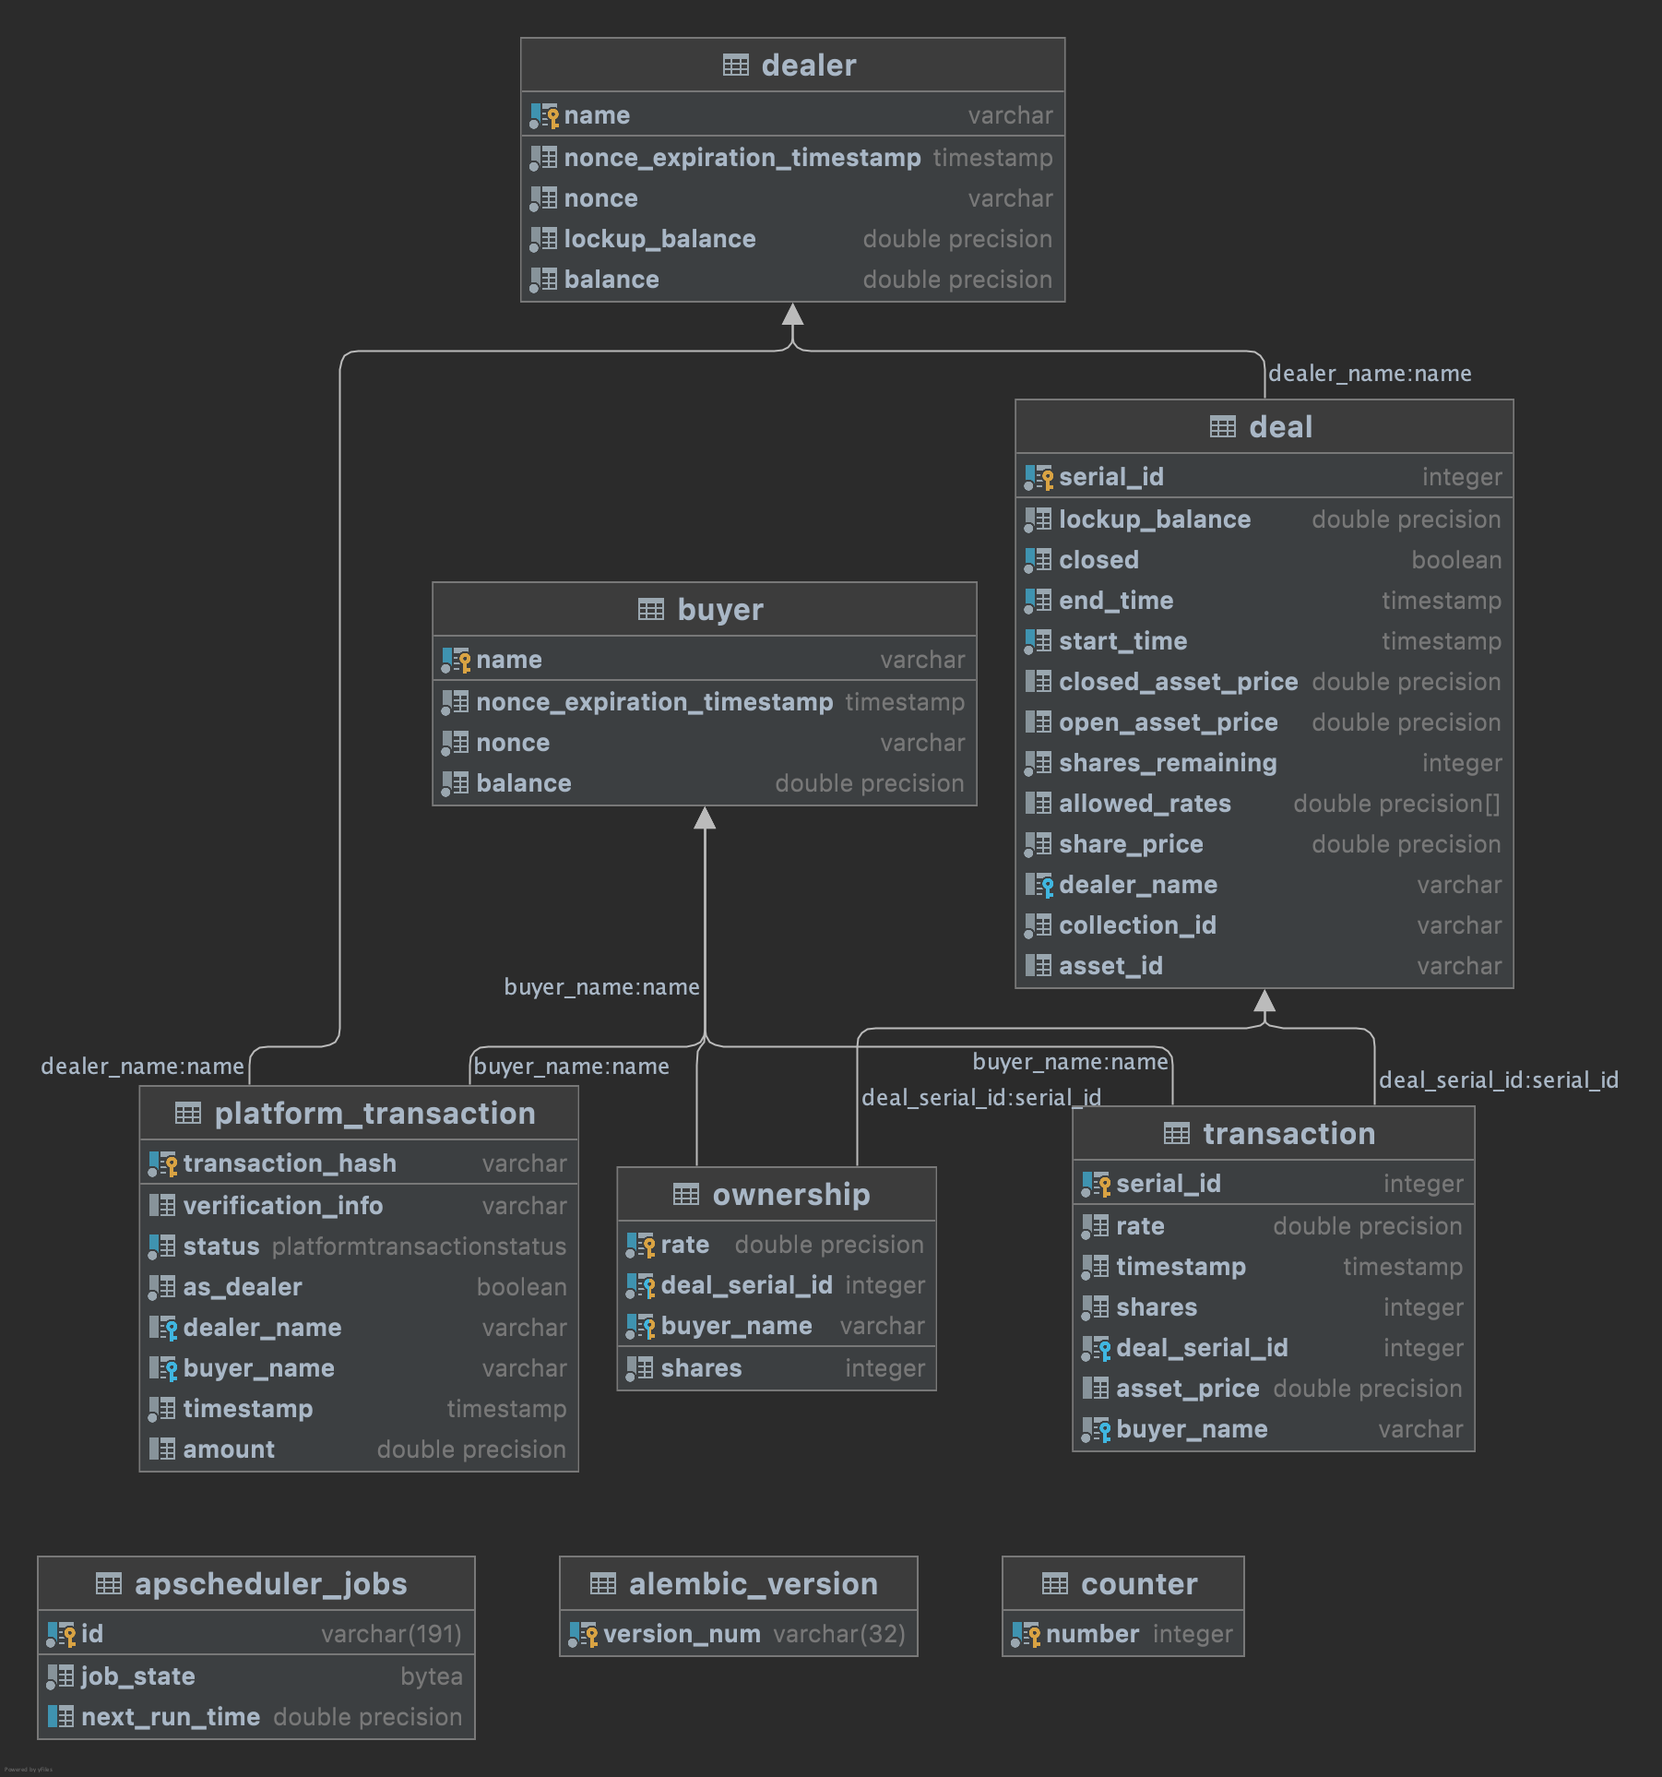
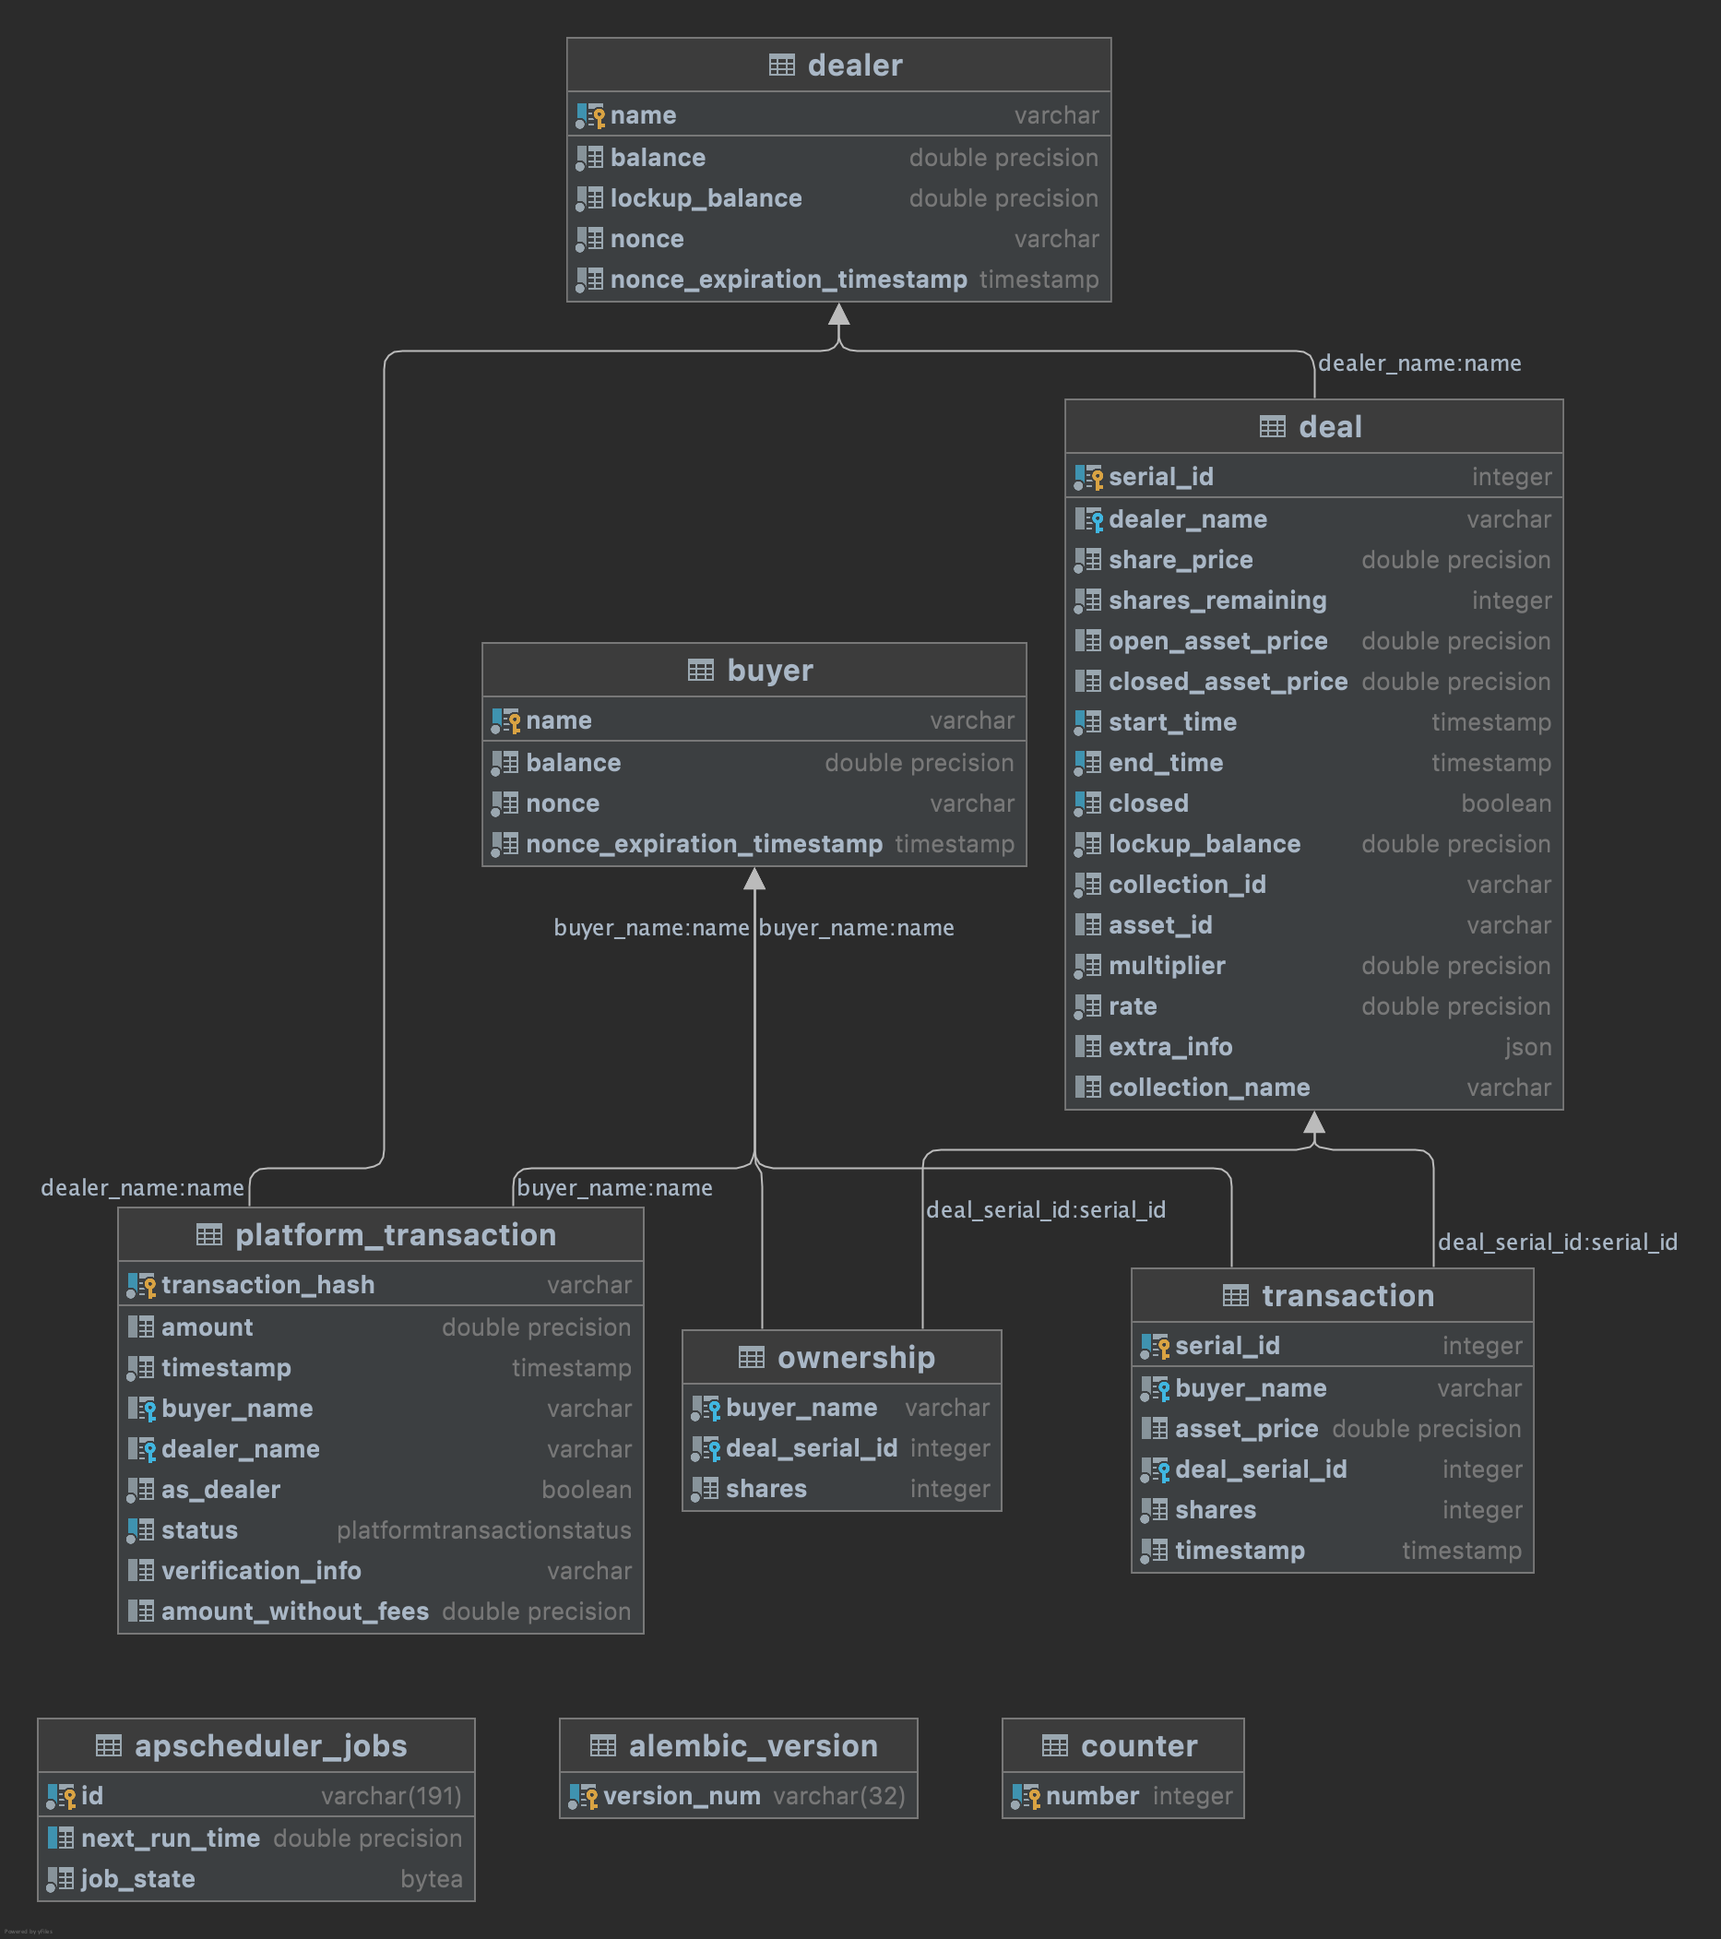
Modify Deal columns

diff --git a/web_backend/dal/transaction_dal.py b/web_backend/dal/transaction_dal.py
@@ -18,7 +18,6 @@ def buy_shares(
     buyer_name: str,
     deal_serial_id: int,
     shares: int,
-    rate: float,
 ) -> Transaction:
     deal = flask_session.get(Deal, deal_serial_id, with_for_update={"key_share": True})
     if not deal:
@@ -27,8 +26,6 @@ def buy_shares(
         abort(409, f"Deal {deal_serial_id} is already closed")
     if datetime.now() > deal.start_time:
         abort(409, f"Deal {deal_serial_id} has started at {deal.start_time}")
-    if rate not in deal.allowed_rates:
-        abort(409, f"Deal {deal_serial_id} does have a rate of {rate}%")
     buyer = flask_session.get(Buyer, buyer_name, with_for_update={"key_share": True})
     if buyer is None:
         abort(404, f"Can't find buyer {buyer_name}")
@@ -40,10 +37,10 @@ def buy_shares(
     # Execute upsert for ownerships
     flask_session.execute(
         insert(Ownership)
-        .values(buyer_name=buyer_name, deal_serial_id=deal_serial_id, rate=rate, shares=shares)
+        .values(buyer_name=buyer_name, deal_serial_id=deal_serial_id, shares=shares)
         .on_conflict_do_update(constraint="ownership_pkey", set_={"shares": Ownership.shares + shares})
     )
-    transaction = Transaction(buyer_name=buyer_name, deal_serial_id=deal.serial_id, shares=shares, rate=rate)
+    transaction = Transaction(buyer_name=buyer_name, deal_serial_id=deal.serial_id, shares=shares)
     flask_session.add(transaction)
     buyer.balance = Buyer.balance - amount_needed
     deal.shares_remaining = Deal.shares_remaining - shares
@@ -52,9 +49,7 @@ def buy_shares(
     return transaction
 
 
-def sell_shares(
-    buyer_name: str, deal_serial_id: int, current_asset_price: float, shares: int, rate: float
-) -> Transaction:
+def sell_shares(buyer_name: str, deal_serial_id: int, current_asset_price: float, shares: int) -> Transaction:
     """Sell some shares from a buyer."""
     deal: Deal = flask_session.get(Deal, deal_serial_id, with_for_update={"key_share": True})
     if not deal:
@@ -63,25 +58,23 @@ def sell_shares(
         abort(409, f"Deal {deal_serial_id} is already closed")
     if datetime.now() > deal.end_time:
         abort(409, f"Deal {deal_serial_id} has ended at {deal.end_time}")
-    if rate not in deal.allowed_rates:
-        abort(409, f"Deal {deal_serial_id} does have a rate of {rate}%")
     if deal.open_asset_price is None:
         abort(500, f"Deal {deal_serial_id} missing open asset price")
     buyer = flask_session.get(Buyer, buyer_name, with_for_update={"key_share": True})
     if buyer is None:
         abort(404, f"Can't find buyer {buyer_name}")
     ownership: Ownership = flask_session.get(
-        Ownership, (buyer_name, deal_serial_id, rate), with_for_update={"key_share": True}
+        Ownership, (buyer_name, deal_serial_id), with_for_update={"key_share": True}
     )
     if ownership is None or ownership.shares < shares:
         abort(409, f"Buyer {buyer_name} does not have enough shares to sell {shares} shares")
     ownership.shares = Ownership.shares - shares
     transaction = Transaction(
-        buyer_name=buyer_name, deal_serial_id=deal_serial_id, shares=-shares, rate=rate, asset_price=current_asset_price
+        buyer_name=buyer_name, deal_serial_id=deal_serial_id, shares=-shares, asset_price=current_asset_price
     )
     flask_session.add(transaction)
     profit = profit_for_buyer(
-        deal.open_asset_price, current_asset_price, deal.share_price, rate, shares, deal.multiplier
+        deal.open_asset_price, current_asset_price, deal.share_price, deal.rate, shares, deal.multiplier
     )
     buyer.balance = Buyer.balance + shares * deal.share_price + profit
     dealer: Dealer = flask_session.get(Dealer, deal.dealer_name, with_for_update={"key_share": True})

diff --git a/web_backend/dal/deal_dal.py b/web_backend/dal/deal_dal.py
@@ -1,5 +1,5 @@
 from datetime import datetime, timedelta
-from typing import Iterable, List, Optional, cast
+from typing import Any, Dict, Iterable, List, Optional, cast
 from flask import abort, current_app
 
 from sqlalchemy import select
@@ -40,18 +40,15 @@ def create_deal(
     collection_id: str,
     asset_id: Optional[str],
     share_price: float,
-    allowed_rates: List[float],
+    rate: float,
     initial_number_of_shares: int,
     start_time: datetime,
     end_time: datetime,
     multiplier: float,
 ) -> Deal:
-    if not allowed_rates:
-        abort(400, "You must specify non-empty list of allowed rates")
     maximum_allowed_rate: float = current_app.config["MAXIMUM_ALLOWED_RATE"]
-    for rate in allowed_rates:
-        if rate <= 0 or rate > maximum_allowed_rate:
-            abort(400, f"The rate {rate} does not fall within the range of (0, {maximum_allowed_rate}]")
+    if rate <= 0 or rate > maximum_allowed_rate:
+        abort(400, f"The rate {rate} does not fall within the range of (0, {maximum_allowed_rate}]")
     if share_price <= 0:
         abort(400, "Share price must be positive")
     if initial_number_of_shares <= 0:
@@ -71,25 +68,30 @@ def create_deal(
     dealer = flask_session.get(Dealer, dealer_name, with_for_update={"key_share": True})
     if not dealer:
         abort(404, f"Dealer {dealer_name} not found")
-    amount_needed = (1 + max(allowed_rates)) * share_price * initial_number_of_shares
+    amount_needed = (1 + rate) * share_price * initial_number_of_shares
     if dealer.lockup_balance + amount_needed >= dealer.balance:
         abort(
             409,
             f"Issuing these shares require a balance of {dealer.lockup_balance + amount_needed}, but the dealer only has {dealer.balance}",
         )
     dealer.lockup_balance = Dealer.lockup_balance + amount_needed
+    # TODO ziyi fetch these two shites
+    collection_name = "dummy_collection"
+    extra_info: Dict[str, Any] = {}
     new_deal = Deal(
         dealer_name=dealer_name,
         collection_id=collection_id,
         asset_id=asset_id,
         share_price=share_price,
-        allowed_rates=allowed_rates,
+        rate=rate,
         shares_remaining=initial_number_of_shares,
         start_time=start_time,
         end_time=end_time,
         lockup_balance=amount_needed,
         closed=False,
         multiplier=multiplier,
+        collection_name=collection_name,
+        extra_info=extra_info,
     )
     flask_session.add(new_deal)
     flask_session.commit()

diff --git a/web_backend/models/deal_model.py b/web_backend/models/deal_model.py
@@ -1,7 +1,7 @@
 """A deal is one game."""
 from typing import Any, Dict, List
 from sqlalchemy import Boolean, CheckConstraint, Column, Float, ForeignKey, Integer, String
-from sqlalchemy.dialects.postgresql import ARRAY, TIMESTAMP
+from sqlalchemy.dialects.postgresql import JSON, TIMESTAMP
 from sqlalchemy.orm import backref, relationship
 from db import flask_db
 from models.ownership_model import Ownership
@@ -16,7 +16,7 @@ class Deal(flask_db.Model):
     collection_id = Column(String, nullable=False)
     asset_id = Column(String)
     share_price = Column(Float, CheckConstraint("share_price > 0"), nullable=False)
-    allowed_rates = Column(ARRAY(Float))
+    rate = Column(Float, CheckConstraint("rate > 0"), nullable=False)
     shares_remaining = Column(Integer, CheckConstraint("shares_remaining >= 0"), nullable=False)
     open_asset_price = Column(Float, CheckConstraint("open_asset_price > 0"))
     closed_asset_price = Column(Float, CheckConstraint("closed_asset_price > 0"))
@@ -24,6 +24,8 @@ class Deal(flask_db.Model):
     end_time = Column(TIMESTAMP, nullable=False, index=True)
     closed = Column(Boolean, nullable=False, index=True)
     lockup_balance = Column(Float, CheckConstraint("lockup_balance >= 0"), nullable=False)
+    extra_info = Column(JSON)
+    collection_name = Column(String, index=True)
     multiplier = Column(Float, nullable=False, default=1)
     transactions: List[Transaction] = relationship(
         Transaction, backref=backref("deal"), cascade="all, delete", passive_deletes=True
@@ -40,7 +42,7 @@ class Deal(flask_db.Model):
             "collection_id": self.collection_id,
             "asset_id": self.asset_id,
             "share_price": self.share_price,
-            "allowed_rates": self.allowed_rates,
+            "rate": self.rate,
             "shares_remaining": self.shares_remaining,
             "open_asset_price": self.open_asset_price,
             "closed_asset_price": self.closed_asset_price,
@@ -49,4 +51,6 @@ class Deal(flask_db.Model):
             "closed": self.closed,
             "lockup_balance": self.lockup_balance,
             "multiplier": self.multiplier,
+            "collection_name": self.collection_name,
+            "extra_info": self.extra_info,
         }

diff --git a/web_backend/migrations/versions/5930943b5645_.py b/web_backend/migrations/versions/5930943b5645_.py
@@ -1,0 +1,48 @@
+"""Modify allowed rates to rate
+
+Revision ID: 5930943b5645
+Revises: 6a4491a098fd
+Create Date: 2022-08-25 11:58:17.942325
+
+"""
+from alembic import op
+import sqlalchemy as sa
+from sqlalchemy.dialects import postgresql
+
+# revision identifiers, used by Alembic.
+revision = "5930943b5645"
+down_revision = "6a4491a098fd"
+branch_labels = None
+depends_on = None
+
+
+def upgrade():
+    # ### commands auto generated by Alembic - please adjust! ###
+    op.add_column("deal", sa.Column("rate", sa.Float(), nullable=False))
+    op.add_column("deal", sa.Column("extra_info", postgresql.JSON(astext_type=sa.Text()), nullable=True))
+    op.add_column("deal", sa.Column("collection_name", sa.String(), nullable=True))
+    op.create_index(op.f("ix_deal_collection_name"), "deal", ["collection_name"], unique=False)
+    op.drop_column("deal", "allowed_rates")
+    op.drop_column("transaction", "rate")
+    # ### end Alembic commands ###
+
+
+def downgrade():
+    # ### commands auto generated by Alembic - please adjust! ###
+    op.add_column(
+        "transaction", sa.Column("rate", postgresql.DOUBLE_PRECISION(precision=53), autoincrement=False, nullable=False)
+    )
+    op.add_column(
+        "deal",
+        sa.Column(
+            "allowed_rates",
+            postgresql.ARRAY(postgresql.DOUBLE_PRECISION(precision=53)),
+            autoincrement=False,
+            nullable=True,
+        ),
+    )
+    op.drop_index(op.f("ix_deal_collection_name"), table_name="deal")
+    op.drop_column("deal", "collection_name")
+    op.drop_column("deal", "extra_info")
+    op.drop_column("deal", "rate")
+    # ### end Alembic commands ###

diff --git a/web_backend/views/transaction.py b/web_backend/views/transaction.py
@@ -16,7 +16,6 @@ def post_transaction():
         buyer_name (str): Name of the buyer who buys or sells.
         deal_serial_id (int): ID of the deal to enter positions for.
         shares (int): Number of shares to buy or share.
-        rate (float): The chosen rate of the deal that the buyer wishes to participate in.
 
     Returns:
         Serial ID of the created transaction if successful.
@@ -27,13 +26,12 @@ def post_transaction():
     buyer_name = get_not_none(request_body_json, "buyer_name")
     deal_serial_id = get_not_none(request_body_json, "deal_serial_id")
     shares = get_not_none(request_body_json, "shares")
-    rate = get_not_none(request_body_json, "rate")
     if shares < 0:
         current_asset_price = 0.5  # TODO how to fetch this
-        created_transaction = sell_shares(buyer_name, deal_serial_id, current_asset_price, -shares, rate)
+        created_transaction = sell_shares(buyer_name, deal_serial_id, current_asset_price, -shares)
         return jsonify(sell_transaction_serial_id=created_transaction.serial_id)
     if shares > 0:
-        created_transaction = buy_shares(buyer_name, deal_serial_id, shares, rate)
+        created_transaction = buy_shares(buyer_name, deal_serial_id, shares)
         return jsonify(buy_transaction_serial_id=created_transaction.serial_id)
     return jsonify("When shares is equal 0, nothing will happen"), 304
 

diff --git a/web_backend/views/deal.py b/web_backend/views/deal.py
@@ -79,7 +79,7 @@ def create_new_deal():
         asset_id (Optional[str]): Id of the underlying asset. If none, this deal is
             aimed for the whole collection.
         share_price (float): Price of each share.
-        allowed_rates (List[float]): Unordered list of rates for this deal.
+        rate (float): Rate (profit/loss cap) for this deal.
         initial_number_of_shares (int): Starting number of shares to sell.
         start_time (str): Starting time of of the deal.
         end_time (str): Ending time of the deal.
@@ -96,7 +96,7 @@ def create_new_deal():
     collection_id = get_not_none(request_body_json, "collection_id")
     asset_id = request_body_json.get("asset_id")
     share_price = get_not_none(request_body_json, "share_price")
-    allowed_rates = get_not_none(request_body_json, "allowed_rates")
+    rate = get_not_none(request_body_json, "rate")
     initial_number_of_shares = get_not_none(request_body_json, "initial_number_of_shares")
     start_time_str = get_not_none(request_body_json, "start_time")
     start_time = format_datetime_str_or_raise(start_time_str, current_app.logger)
@@ -108,7 +108,7 @@ def create_new_deal():
         collection_id,
         asset_id,
         share_price,
-        allowed_rates,
+        rate,
         initial_number_of_shares,
         start_time,
         end_time,

diff --git a/web_backend/migrations/versions/09f1674478b1_.py b/web_backend/migrations/versions/09f1674478b1_.py
@@ -22,11 +22,10 @@ def upgrade():
         "ownership",
         sa.Column("buyer_name", sa.String(), nullable=False),
         sa.Column("deal_serial_id", sa.Integer(), nullable=False),
-        sa.Column("rate", sa.Float(), nullable=False),
         sa.Column("shares", sa.Integer(), sa.CheckConstraint("shares >= 0"), nullable=False),
         sa.ForeignKeyConstraint(["buyer_name"], ["buyer.name"], ondelete="CASCADE"),
         sa.ForeignKeyConstraint(["deal_serial_id"], ["deal.serial_id"], ondelete="CASCADE"),
-        sa.PrimaryKeyConstraint("buyer_name", "deal_serial_id", "rate"),
+        sa.PrimaryKeyConstraint("buyer_name", "deal_serial_id"),
     )
     # ### end Alembic commands ###
 

diff --git a/web_backend/models/ownership_model.py b/web_backend/models/ownership_model.py
@@ -11,7 +11,6 @@ class Ownership(flask_db.Model):
 
     buyer_name = Column(String, ForeignKey("buyer.name", ondelete="CASCADE"), nullable=False, primary_key=True)
     deal_serial_id = Column(Integer, ForeignKey("deal.serial_id", ondelete="CASCADE"), nullable=False, primary_key=True)
-    rate = Column(Float, nullable=False, primary_key=True)
     shares = Column(Integer, CheckConstraint("shares >= 0"), nullable=False)
 
     @property
@@ -19,6 +18,5 @@ class Ownership(flask_db.Model):
         return {
             "buyer_name": self.buyer_name,
             "deal_serial_id": self.deal_serial_id,
-            "rate": self.rate,
             "shares": self.shares,
         }

diff --git a/web_backend/models/transaction_model.py b/web_backend/models/transaction_model.py
@@ -18,7 +18,6 @@ class Transaction(flask_db.Model):
     # Positive means buyer buying. Negative means buyer selling.
     shares = Column(Integer, nullable=False)
     timestamp = Column(TIMESTAMP, nullable=False, default=datetime.now)
-    rate = Column(Float, nullable=False)
 
     @property
     def info(self) -> Dict[str, str | int | float]:
@@ -29,5 +28,4 @@ class Transaction(flask_db.Model):
             "deal_serial_id": self.deal_serial_id,
             "shares": self.shares,
             "timestamp": str(self.timestamp),
-            "rate": self.rate,
         }
